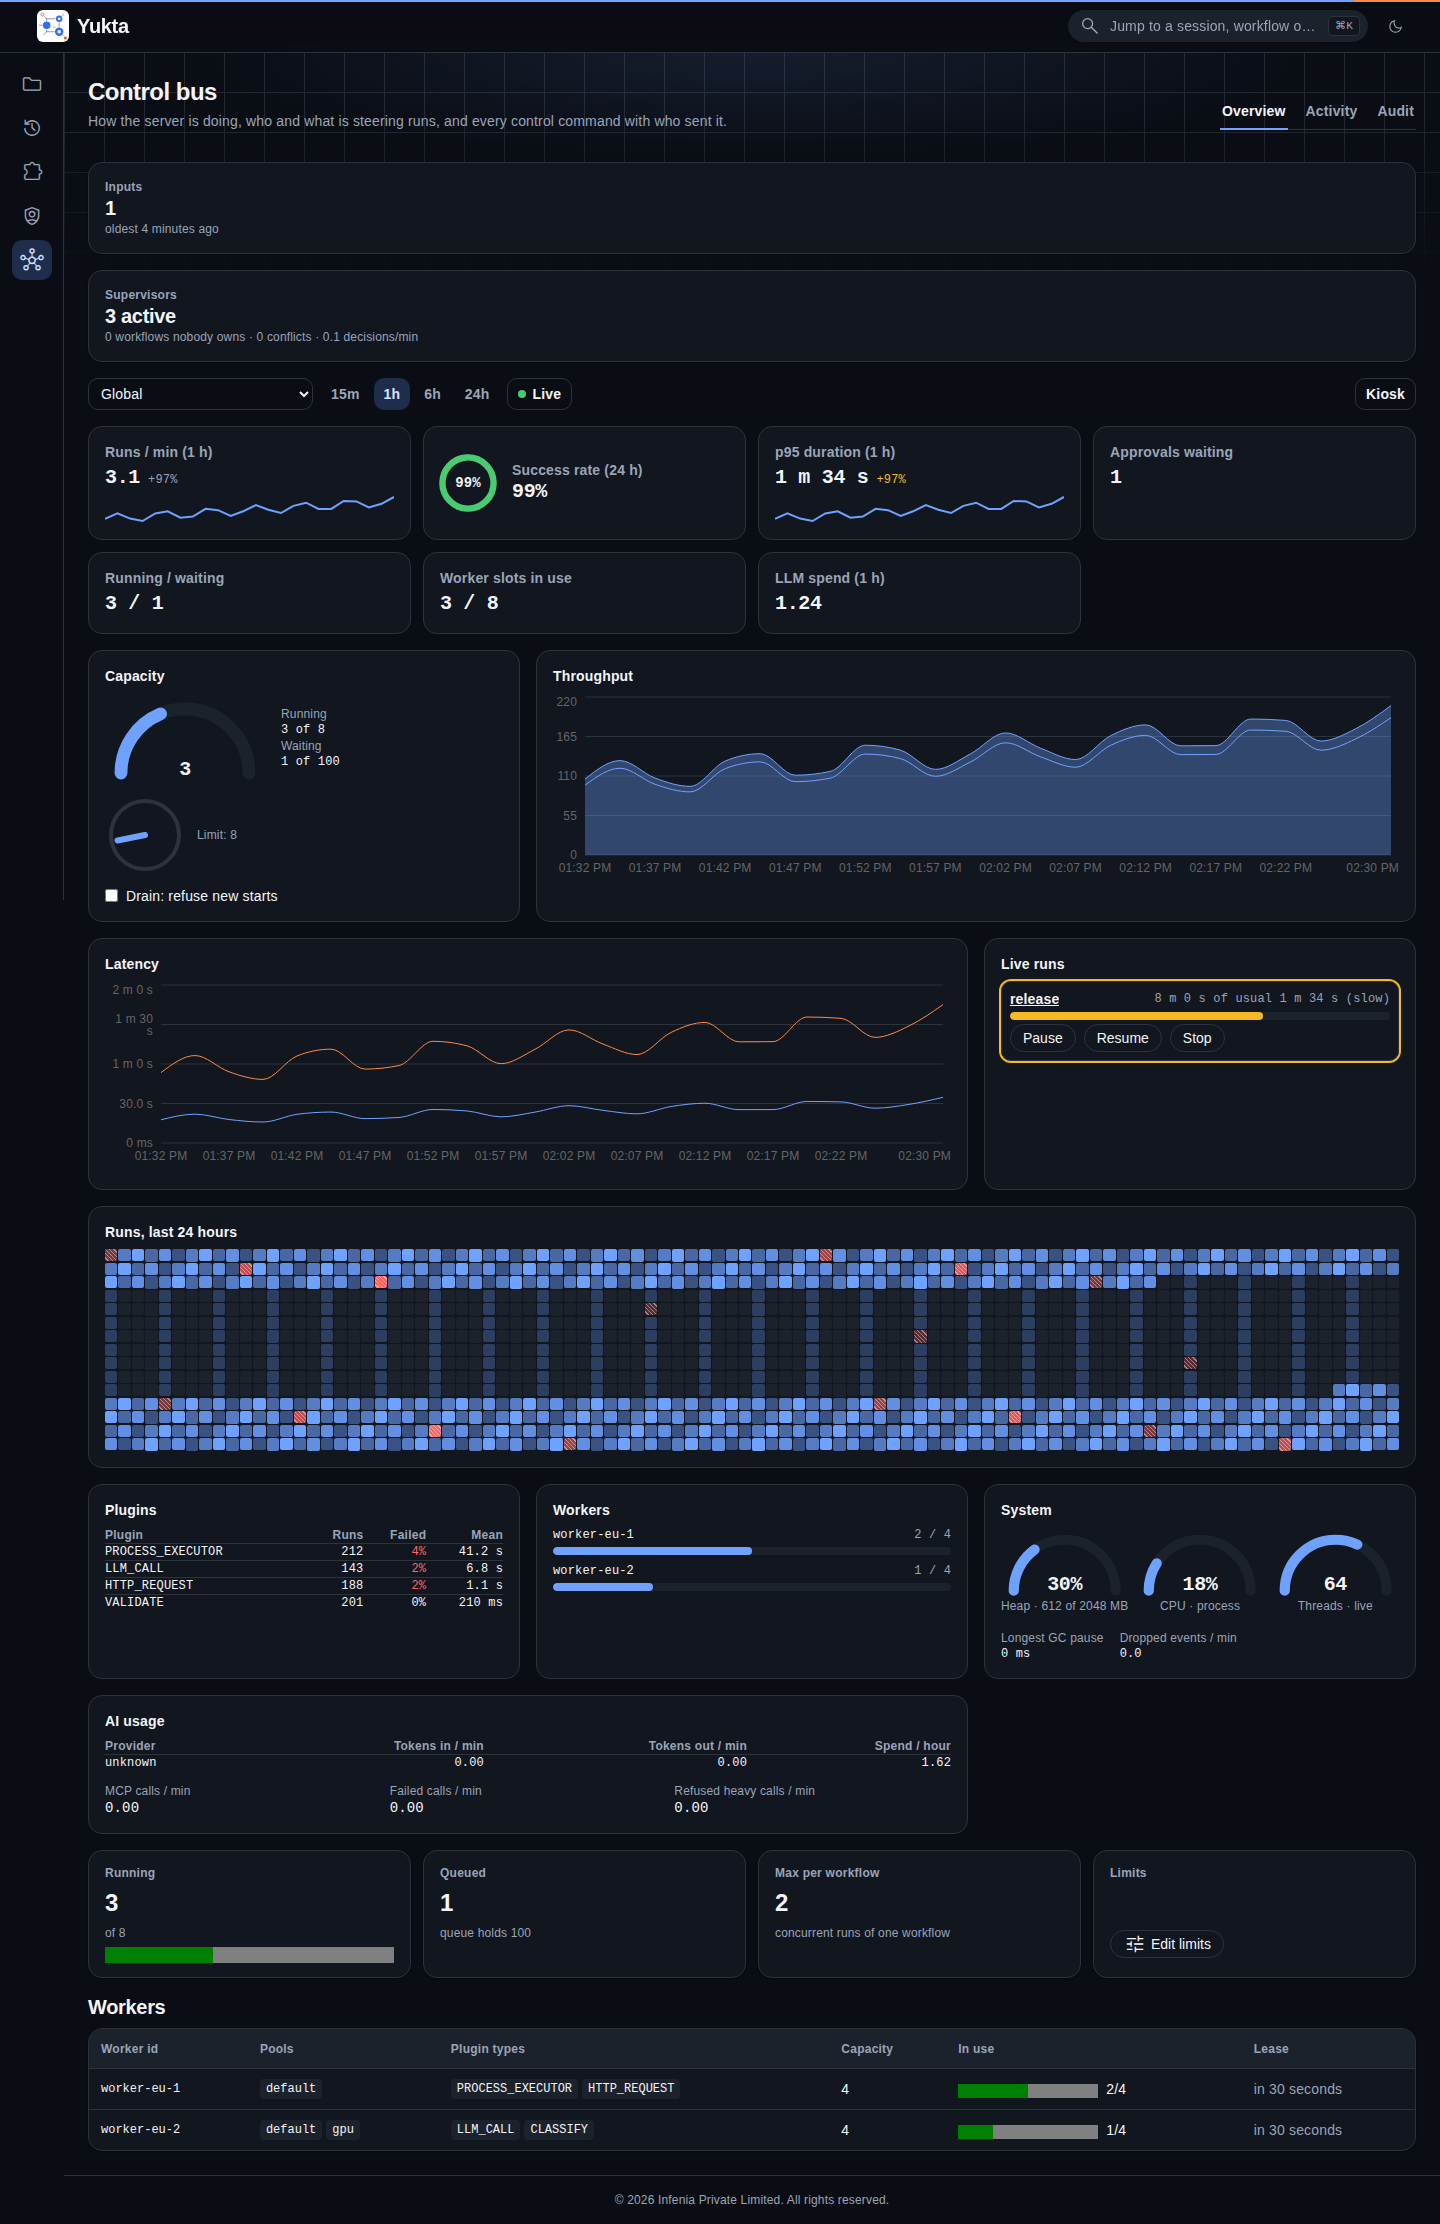
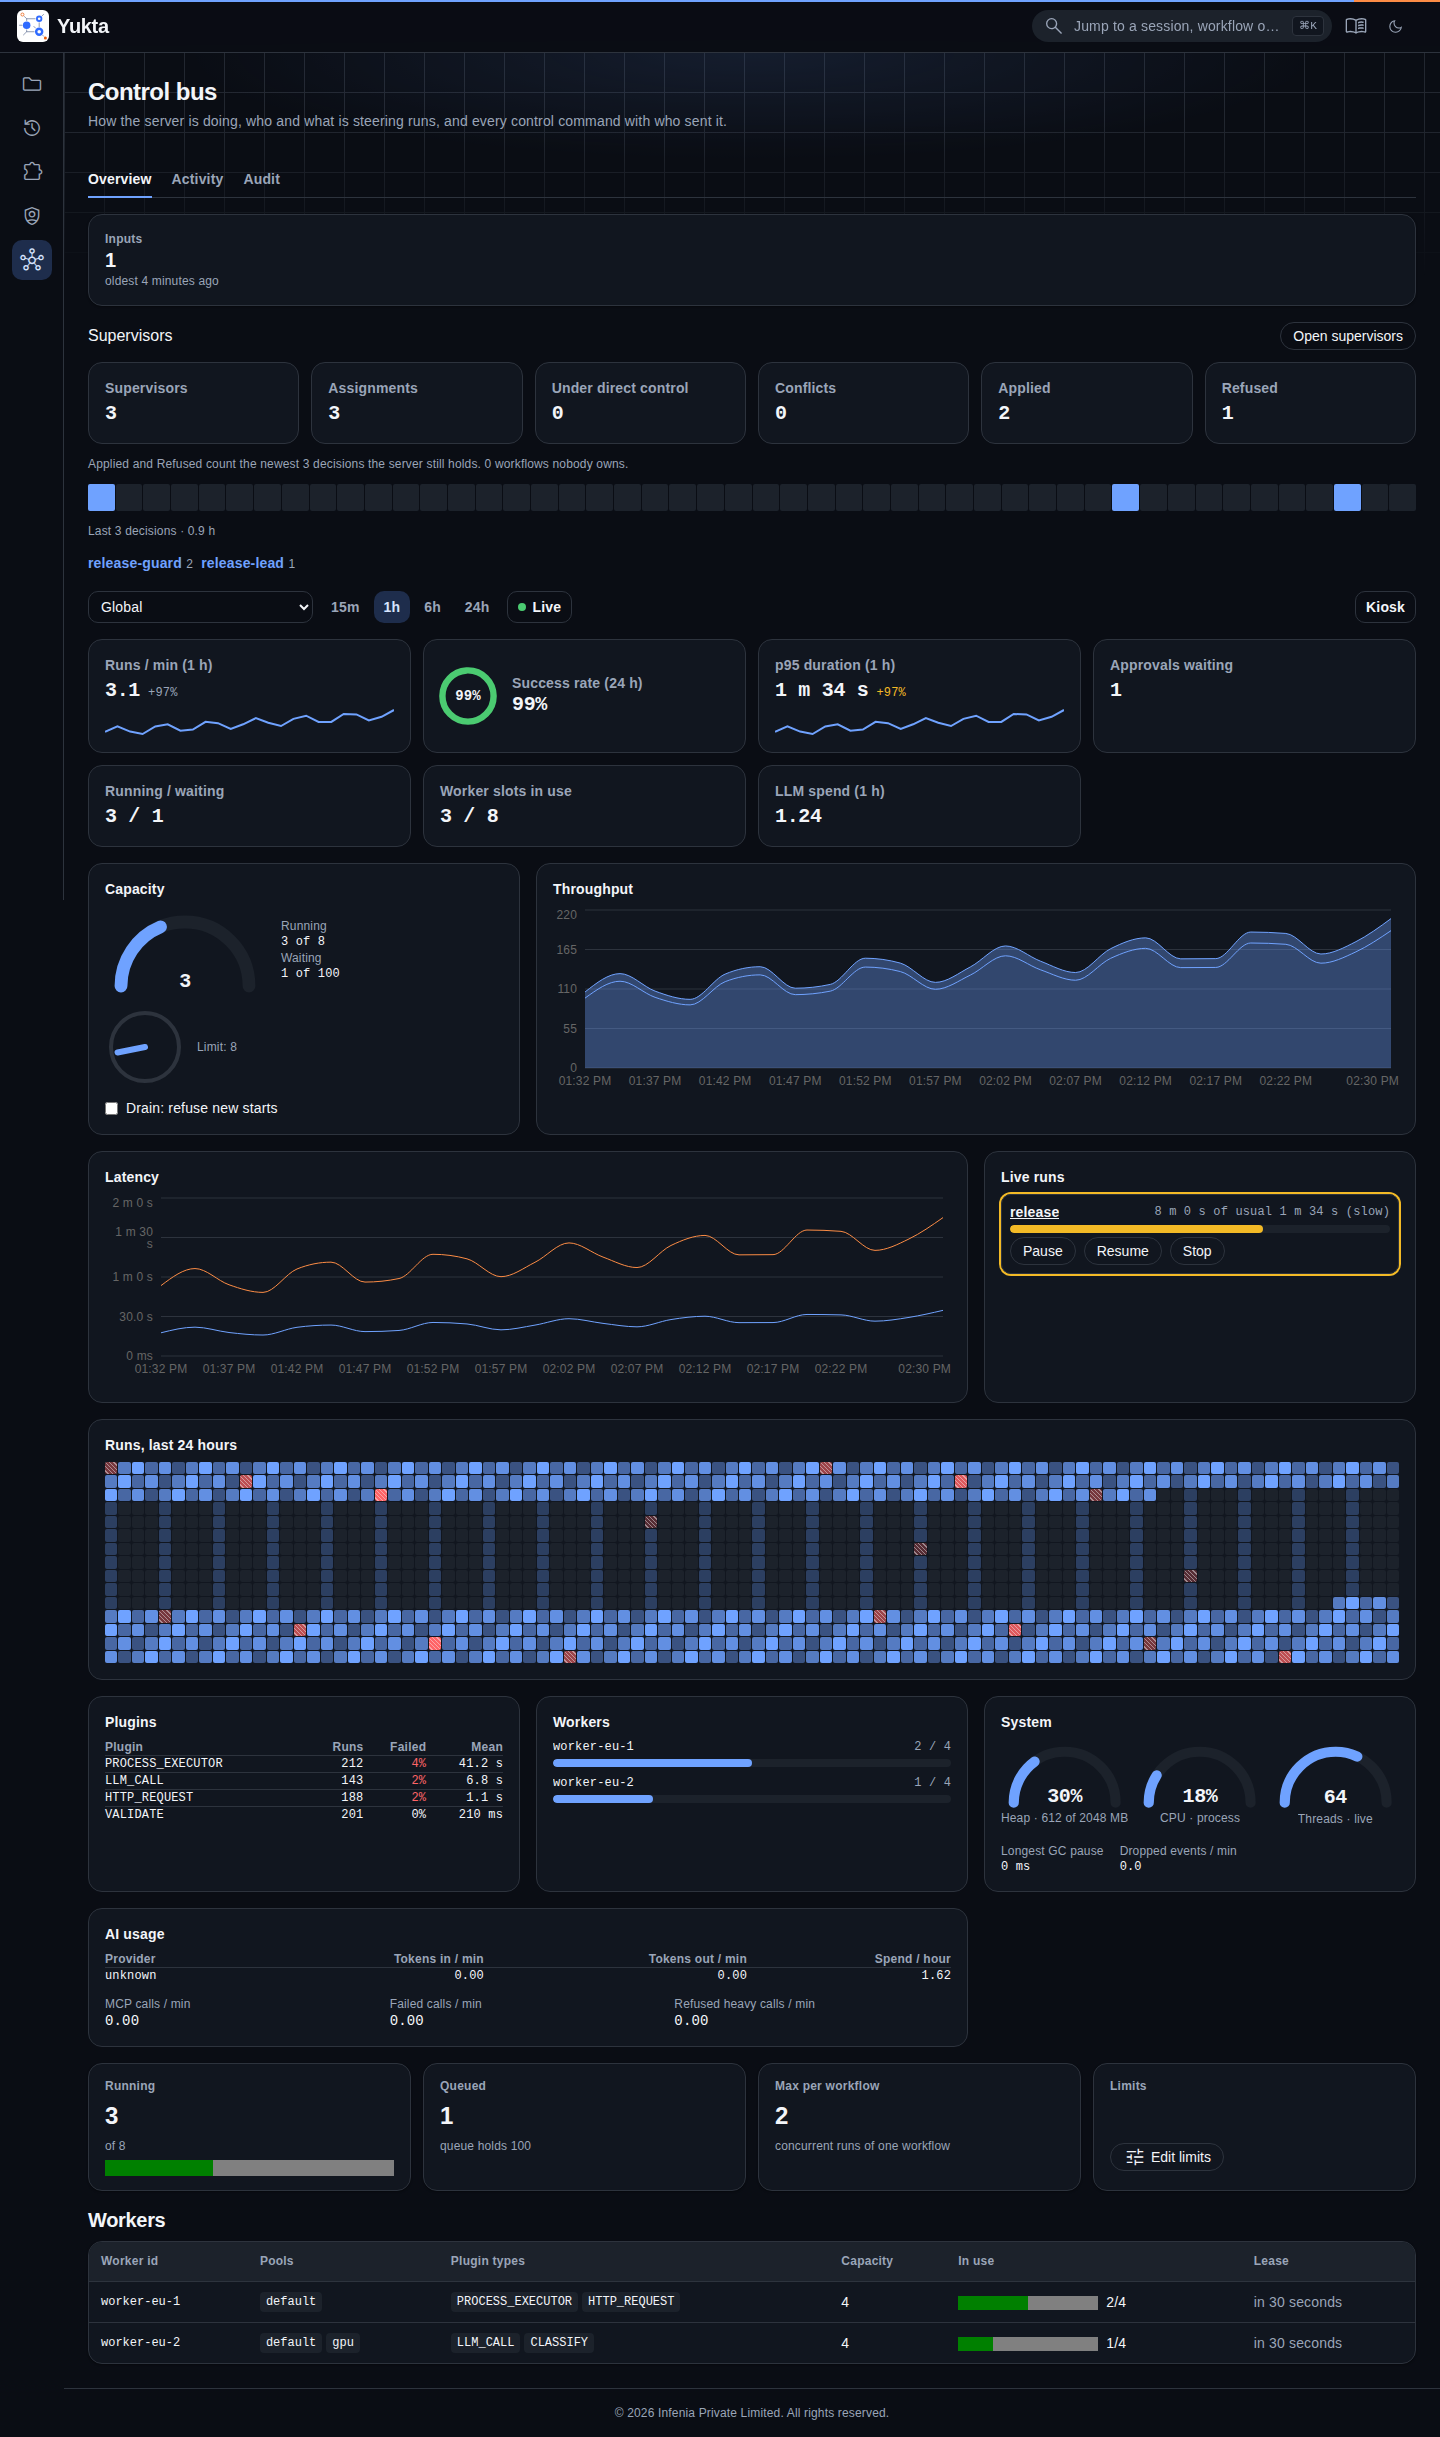
fix(ui): refit the supervision map when its box resizes; docs for the new Supervisors page
The first fit ran before the box had its width, so the right-hand boxes were cut off.
Docs: the Supervisors page (list, map, tabs, types sheet), the Control Supervisors section, and
the screenshots (new supervisors-page; supervisors-catalogue and control-dashboard recaptured).

diff --git a/ui/src/features/supervisors/components/SupervisionMap.tsx b/ui/src/features/supervisors/components/SupervisionMap.tsx
@@ -1,7 +1,7 @@
 // SPDX-License-Identifier: Apache-2.0
 // SPDX-FileCopyrightText: 2026 Infenia Private Limited
 
-import { useMemo } from 'react';
+import { useEffect, useMemo } from 'react';
 import { useNavigate } from 'react-router';
 import { useQueries } from '@tanstack/react-query';
 import {
@@ -9,6 +9,9 @@ import {
   Handle,
   Position,
   ReactFlow,
+  ReactFlowProvider,
+  useReactFlow,
+  useStore,
   type Edge,
   type Node,
   type NodeProps,
@@ -69,6 +72,17 @@ function Card({ data }: NodeProps<Node<CardData>>) {
 }
 
 const NODE_TYPES = { card: Card };
+const FIT = { padding: 0.2, maxZoom: 1 };
+
+/** Fits the view again when the box is resized or the boxes change: the first fit runs too early. */
+function Refit({ signature }: { signature: string }) {
+  const { fitView } = useReactFlow();
+  const width = useStore((s) => s.width);
+  useEffect(() => {
+    void fitView(FIT);
+  }, [fitView, width, signature]);
+  return null;
+}
 
 /**
  * Who decides, who this supervisor reports to and who reports to it, the workflows it owns and the
@@ -153,19 +167,22 @@ export function SupervisionMap({
       aria-label="Supervision map"
       className="border-border bg-card shadow-card h-72 overflow-hidden rounded-xl border"
     >
-      <ReactFlow
-        nodes={nodes}
-        edges={edges}
-        nodeTypes={NODE_TYPES}
-        onNodeClick={onClick}
-        fitView
-        fitViewOptions={{ padding: 0.2, maxZoom: 1 }}
-        nodesDraggable={false}
-        nodesConnectable={false}
-        proOptions={{ hideAttribution: true }}
-      >
-        <Background gap={16} size={1} />
-      </ReactFlow>
+      <ReactFlowProvider>
+        <ReactFlow
+          nodes={nodes}
+          edges={edges}
+          nodeTypes={NODE_TYPES}
+          onNodeClick={onClick}
+          fitView
+          fitViewOptions={FIT}
+          nodesDraggable={false}
+          nodesConnectable={false}
+          proOptions={{ hideAttribution: true }}
+        >
+          <Background gap={16} size={1} />
+          <Refit signature={graph.nodes.map((n) => n.id).join('|')} />
+        </ReactFlow>
+      </ReactFlowProvider>
     </section>
   );
 }

diff --git a/ui/e2e/docs-screenshots/shots.ts b/ui/e2e/docs-screenshots/shots.ts
@@ -93,12 +93,28 @@ export const SHOTS: Shot[] = [
     pages: ['/interfaces/web-ui', '/plugins'],
   },
   {
+    name: 'supervisors-page',
+    shows:
+      'The Supervisors page: the list, and the chosen supervisor with its numbers, its map and its tabs.',
+    route: '/supervisors',
+    stubs: [stub.supervisors],
+    ready: (page) => page.getByRole('region', { name: 'Supervision map' }),
+    pages: [
+      '/guides/operate/use-the-web-ui',
+      '/guides/supervise/use-the-control-dashboard',
+    ],
+  },
+  {
     name: 'supervisors-catalogue',
-    shows: 'The Decision makers tab: the kinds of supervisor a server offers.',
+    shows:
+      'The Decision maker types sheet: the kinds of supervisor a server offers.',
     route: '/supervisors?tab=decision-makers',
     stubs: [stub.supervisors],
     ready: (page) => page.getByText('External system').first(),
-    pages: ['/contributing/supervisors', '/interfaces/web-ui'],
+    pages: [
+      '/contributing/supervisors',
+      '/guides/supervise/assign-a-supervisor',
+    ],
   },
   {
     name: 'supervisor-details',
